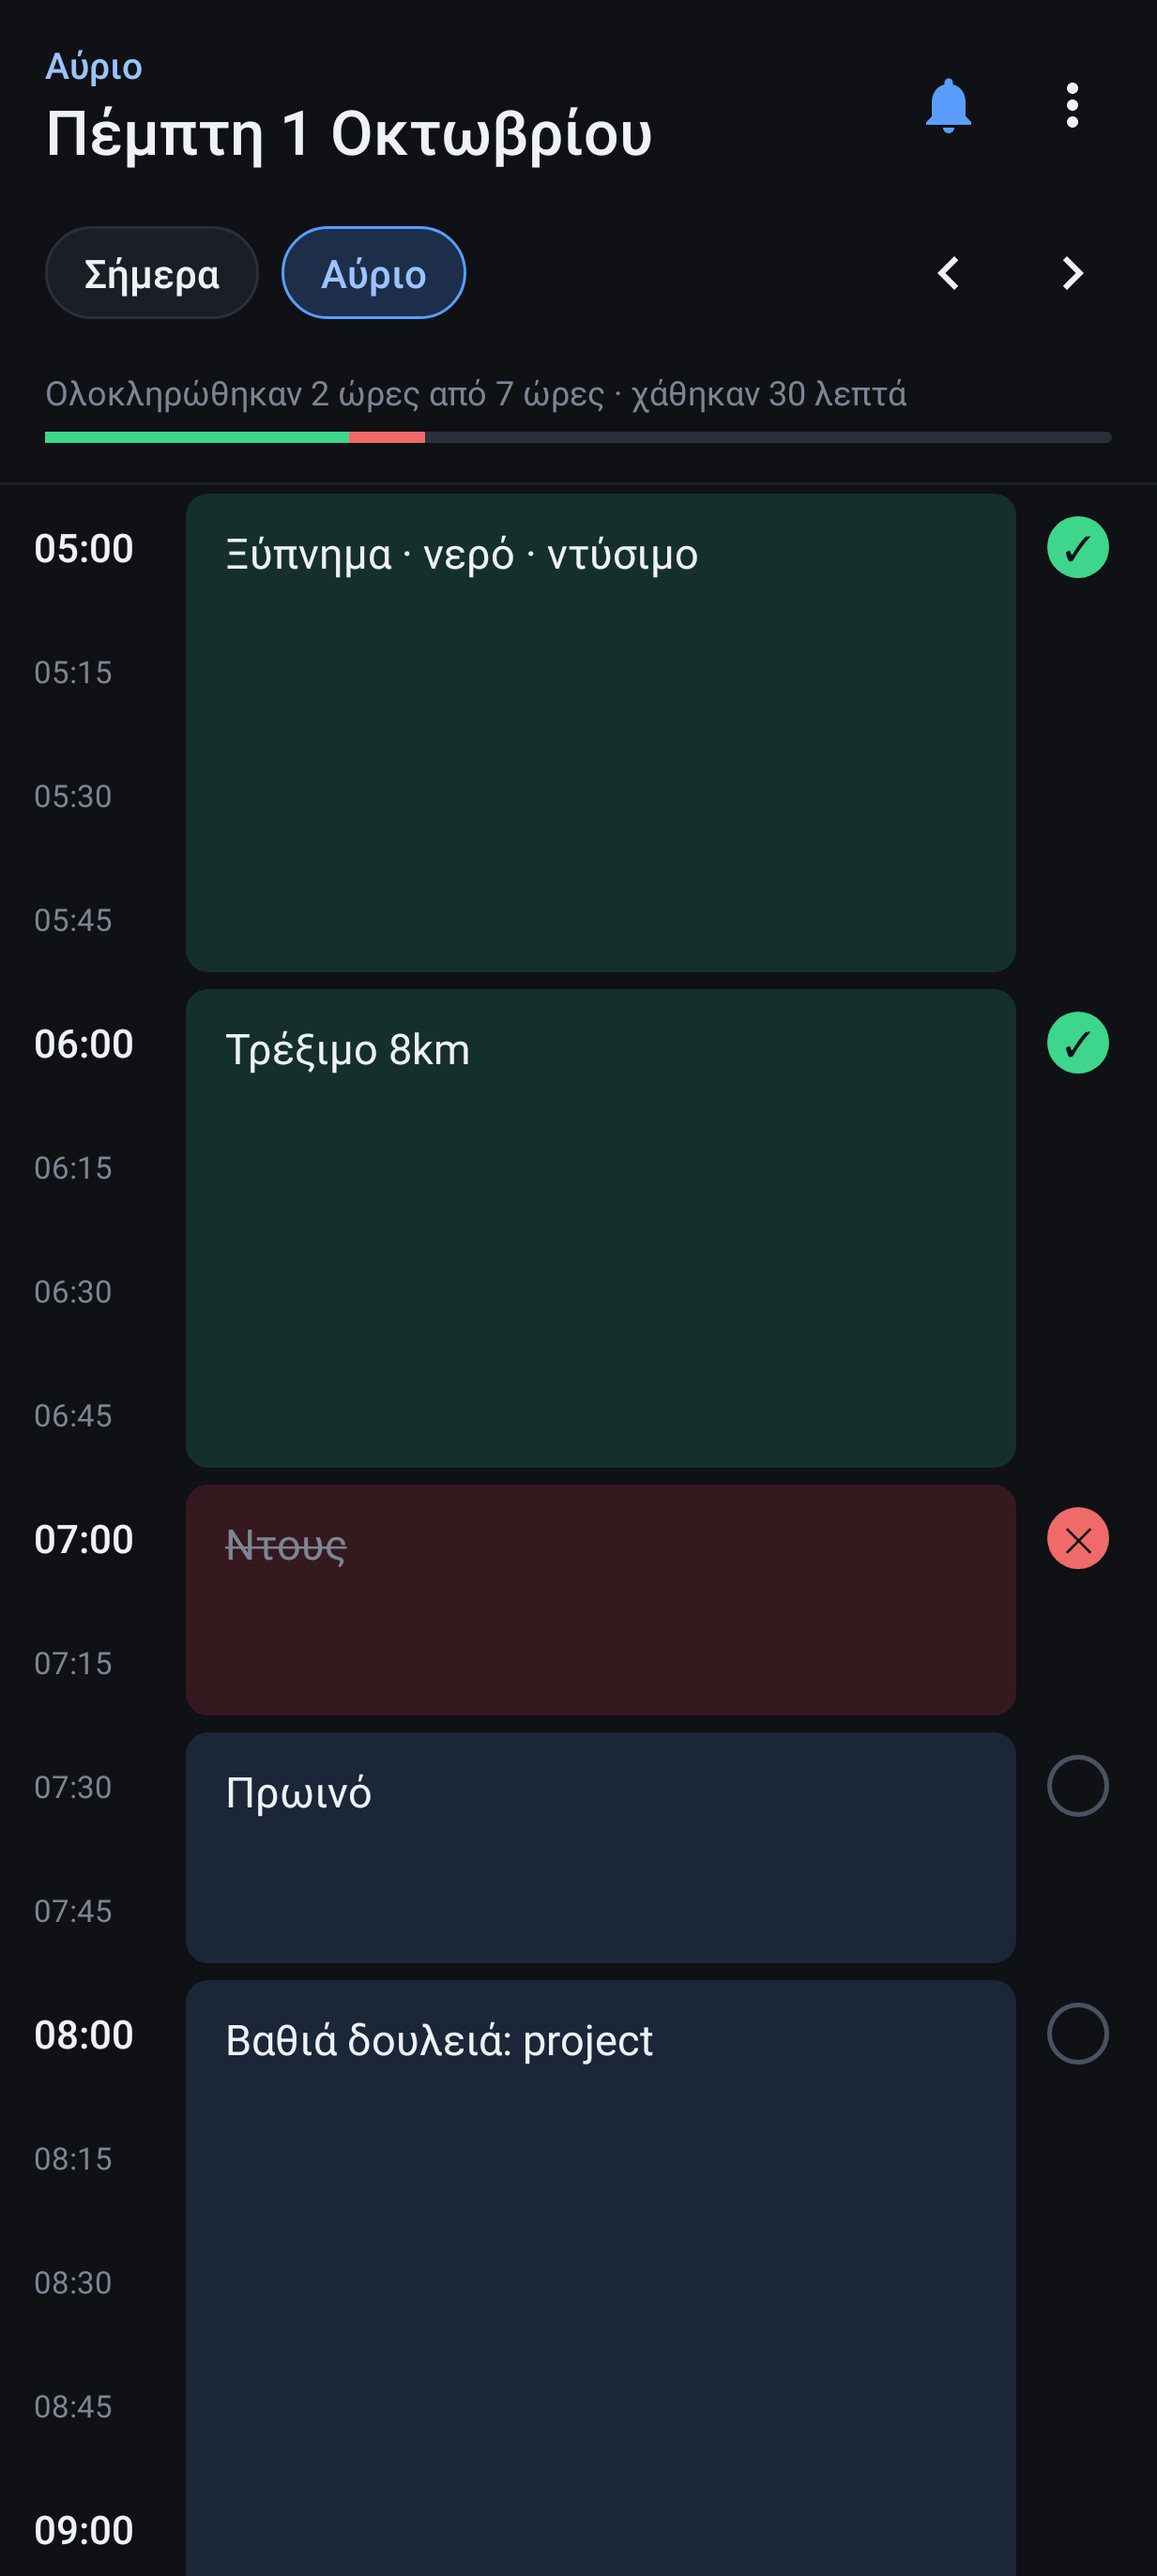
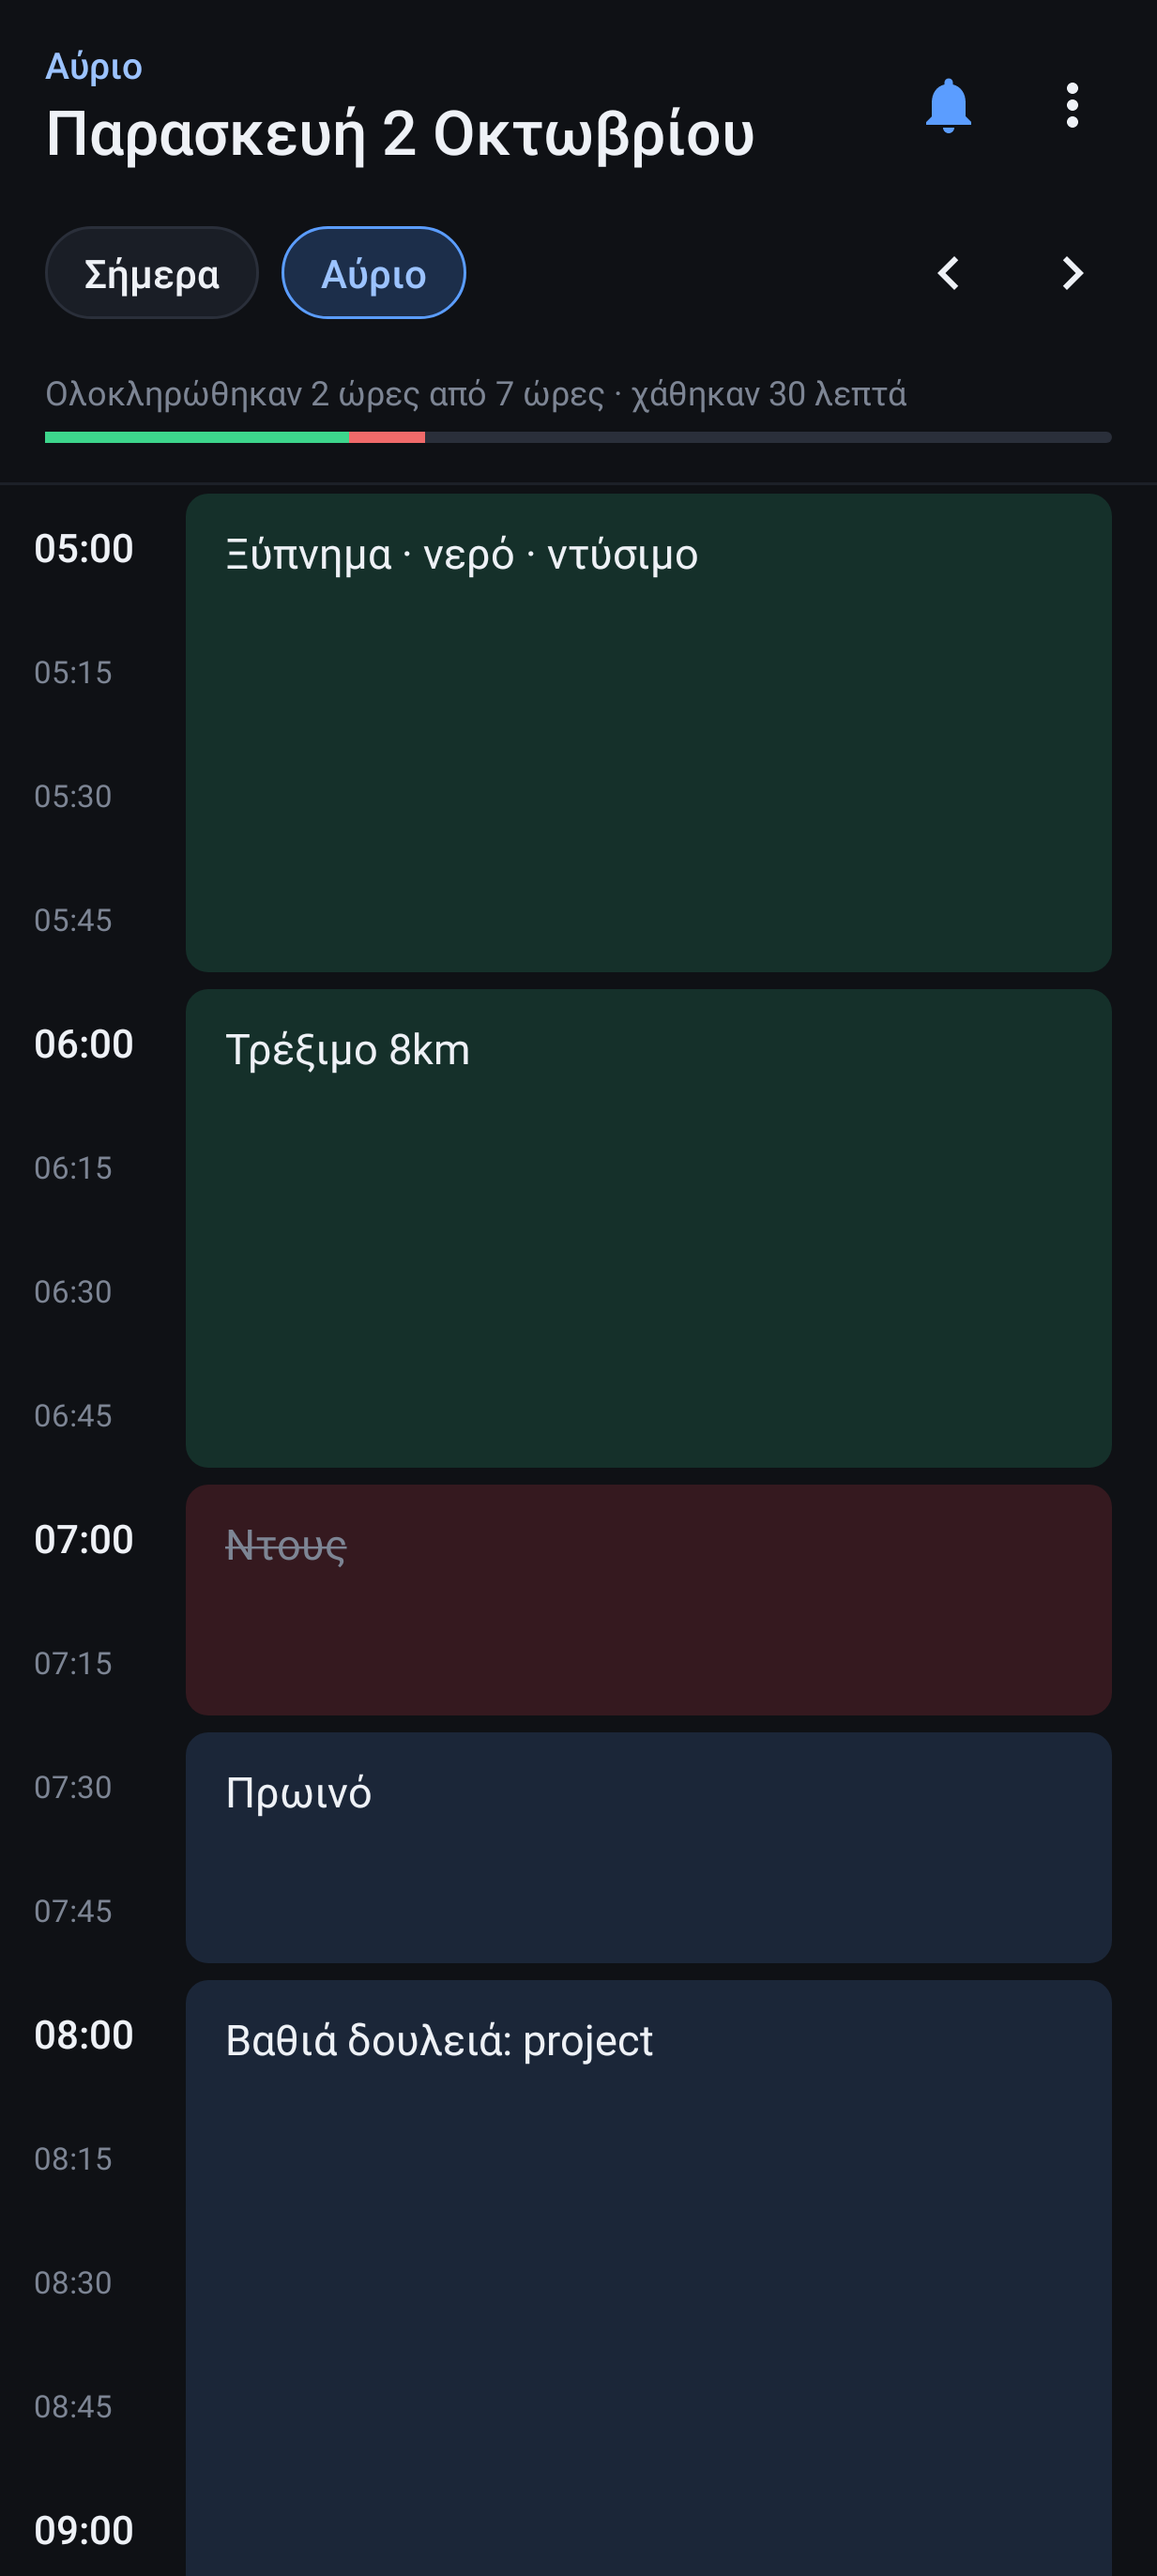
Move done / not-done marking from the side circle into the block editor
The status circle beside each block is gone, so blocks use the full
width. Tapping a block shows Done / Not done buttons at the top of the
editor; one tap saves the status and closes it, a second tap on the
selected one clears it.

Claude-Session: https://claude.ai/code/session_011h5q5tjD47oy7nF4i3weRa

Changed region(s): [[0.8629, 0.1858, 0.9862, 1.0], [0.0925, 0.031, 0.6472, 0.0619]]

diff --git a/app/src/main/java/com/omiros/timetable/MainActivity.java b/app/src/main/java/com/omiros/timetable/MainActivity.java
@@ -14,7 +14,6 @@ import android.graphics.Typeface;
 import android.graphics.drawable.ColorDrawable;
 import android.graphics.drawable.Drawable;
 import android.graphics.drawable.GradientDrawable;
-import android.graphics.drawable.InsetDrawable;
 import android.graphics.drawable.RippleDrawable;
 import android.os.Build;
 import android.os.Bundle;
@@ -90,7 +89,6 @@ public class MainActivity extends Activity {
     private final View[] rows = new View[DayStore.SLOTS];
     private final TextView[] timeViews = new TextView[DayStore.SLOTS];
     private final TextView[] boxViews = new TextView[DayStore.SLOTS];
-    private final TextView[] statusViews = new TextView[DayStore.SLOTS];
 
     @Override
     protected void onCreate(Bundle savedInstanceState) {
@@ -274,7 +272,7 @@ public class MainActivity extends Activity {
         scroll.setVerticalScrollBarEnabled(false);
         LinearLayout list = new LinearLayout(this);
         list.setOrientation(LinearLayout.VERTICAL);
-        list.setPadding(dp(12), dp(8), dp(8), dp(24));
+        list.setPadding(dp(12), dp(8), dp(16), dp(24));
         for (int i = 0; i < DayStore.SLOTS; i++) {
             list.addView(buildRow(i));
         }
@@ -284,7 +282,7 @@ public class MainActivity extends Activity {
         hint.setPadding(dp(16), dp(20), dp(16), 0);
         hint.setText("Πάτα ένα κουτί για να γράψεις τι θα κάνεις.\n"
                 + "Κράτα πατημένο ένα γεμάτο κουτί για νέα δραστηριότητα από εκείνη την ώρα.\n"
-                + "Πάτα τον κύκλο δεξιά: ✓ έγινε · ✕ δεν έγινε.");
+                + "Πάτα ένα γεμάτο κουτί για να το σημειώσεις ✓ έγινε ή ✕ δεν έγινε.");
         list.addView(hint);
         // The list plus a "now" line drawn over it at the current minute.
         android.widget.FrameLayout canvas = new android.widget.FrameLayout(this);
@@ -293,7 +291,7 @@ public class MainActivity extends Activity {
         android.widget.FrameLayout.LayoutParams nlp = new android.widget.FrameLayout.LayoutParams(
                 ViewGroup.LayoutParams.MATCH_PARENT, dp(10));
         nlp.leftMargin = dp(12 + 54 - 5);
-        nlp.rightMargin = dp(8 + 42);
+        nlp.rightMargin = dp(16);
         canvas.addView(nowLine, nlp);
         scroll.addView(canvas);
         root.addView(scroll, new LinearLayout.LayoutParams(ViewGroup.LayoutParams.MATCH_PARENT, 0, 1));
@@ -360,22 +358,10 @@ public class MainActivity extends Activity {
         });
         row.addView(box, new LinearLayout.LayoutParams(0, ViewGroup.LayoutParams.MATCH_PARENT, 1));
 
-        TextView status = text(12, BG, true);
-        status.setGravity(Gravity.CENTER);
-        status.setOnClickListener(new View.OnClickListener() {
-            @Override
-            public void onClick(View v) {
-                cycleStatus(i);
-            }
-        });
-        LinearLayout.LayoutParams stLp = new LinearLayout.LayoutParams(dp(40), dp(40));
-        stLp.leftMargin = dp(2);
-        row.addView(status, stLp);
 
         rows[i] = row;
         timeViews[i] = time;
         boxViews[i] = box;
-        statusViews[i] = status;
         return row;
     }
 
@@ -464,15 +450,6 @@ public class MainActivity extends Activity {
             lp.bottomMargin = joinNext ? 0 : dp(2);
             box.setLayoutParams(lp);
 
-            TextView sv = statusViews[i];
-            if (filled && !joinPrev) {
-                sv.setVisibility(View.VISIBLE);
-                sv.setText(st == DayStore.DONE ? "✓" : st == DayStore.MISSED ? "✕" : "");
-                sv.setBackground(statusBackground(st));
-            } else {
-                sv.setVisibility(View.INVISIBLE);
-            }
-
             TextView tv = timeViews[i];
             boolean hour = i % 4 == 0;
             tv.setTextColor(i == now ? ACCENT : hour ? TEXT : DIM);
@@ -493,18 +470,6 @@ public class MainActivity extends Activity {
         positionNowLine();
     }
 
-    private Drawable statusBackground(int st) {
-        GradientDrawable oval = new GradientDrawable();
-        oval.setShape(GradientDrawable.OVAL);
-        if (st == DayStore.DONE) oval.setColor(GREEN);
-        else if (st == DayStore.MISSED) oval.setColor(RED);
-        else oval.setStroke(dp(1.5f), 0xFF4A5261);
-        GradientDrawable mask = new GradientDrawable();
-        mask.setShape(GradientDrawable.OVAL);
-        mask.setColor(0xFFFFFFFF);
-        return new RippleDrawable(ColorStateList.valueOf(0x33FFFFFF), new InsetDrawable(oval, dp(9)), mask);
-    }
-
     // ---------------------------------------------------------------- interactions
 
     private void onBoxTap(int i) {
@@ -514,14 +479,6 @@ public class MainActivity extends Activity {
             int s = blockStart(i);
             openEditor(s, blockLen(s), true);
         }
-    }
-
-    private void cycleStatus(int i) {
-        if (day.text[i] == null) return;
-        int s = blockStart(i);
-        int next = (day.status[s] + 1) % 3;
-        for (int k = s, n = s + blockLen(s); k < n; k++) day.status[k] = next;
-        persist();
     }
 
     private void toggleNotifications() {
@@ -565,7 +522,37 @@ public class MainActivity extends Activity {
         range.setFontFeatureSettings("tnum");
         content.addView(range);
 
+        // Accountability: mark an existing block as done / not done (saves and closes right away).
+        final AlertDialog[] holder = new AlertDialog[1];
         final EditText input = new EditText(this);
+        if (existing) {
+            LinearLayout statusRow = new LinearLayout(this);
+            statusRow.setPadding(0, dp(14), 0, dp(2));
+            final int current = day.status[start];
+            int[] values = {DayStore.DONE, DayStore.MISSED};
+            String[] labels = {"✓  Έγινε", "✕  Δεν έγινε"};
+            for (int k = 0; k < 2; k++) {
+                final int value = values[k];
+                TextView c = chip(labels[k]);
+                styleStatusChip(c, value, current == value);
+                c.setOnClickListener(new View.OnClickListener() {
+                    @Override
+                    public void onClick(View v) {
+                        String t = input.getText().toString().trim();
+                        applyEdit(start, origLen, len[0], t.isEmpty() ? day.text[start] : t,
+                                current == value ? DayStore.NONE : value);
+                        holder[0].dismiss();
+                    }
+                });
+                LinearLayout.LayoutParams lp = new LinearLayout.LayoutParams(0, ViewGroup.LayoutParams.WRAP_CONTENT, 1);
+                if (k == 0) lp.rightMargin = dp(8);
+                c.setGravity(Gravity.CENTER);
+                c.setPadding(dp(14), dp(10), dp(14), dp(10));
+                statusRow.addView(c, lp);
+            }
+            content.addView(statusRow);
+        }
+
         input.setTextColor(TEXT);
         input.setHintTextColor(DIM);
         input.setHint("Τι θα κάνεις;");
@@ -683,7 +670,7 @@ public class MainActivity extends Activity {
                         if (t.isEmpty()) {
                             if (existing) clearRange(start, origLen);
                         } else {
-                            applyEdit(start, origLen, len[0], t);
+                            applyEdit(start, origLen, len[0], t, -1);
                         }
                     }
                 });
@@ -696,6 +683,7 @@ public class MainActivity extends Activity {
             });
         }
         final AlertDialog dialog = b.create();
+        holder[0] = dialog;
         input.setOnEditorActionListener(new TextView.OnEditorActionListener() {
             @Override
             public boolean onEditorAction(TextView v, int actionId, KeyEvent event) {
@@ -714,14 +702,15 @@ public class MainActivity extends Activity {
         styleButtons(dialog);
     }
 
-    private void applyEdit(int start, int origLen, int len, String t) {
+    /** @param status new status for the block, or -1 to keep it when the text is unchanged */
+    private void applyEdit(int start, int origLen, int len, String t, int status) {
         String oldText = origLen > 0 ? day.text[start] : null;
         int oldStatus = origLen > 0 ? day.status[start] : DayStore.NONE;
         for (int k = start; k < start + origLen; k++) {
             day.text[k] = null;
             day.status[k] = DayStore.NONE;
         }
-        int keep = t.equals(oldText) ? oldStatus : DayStore.NONE;
+        int keep = status >= 0 ? status : t.equals(oldText) ? oldStatus : DayStore.NONE;
         for (int k = start; k < Math.min(DayStore.SLOTS, start + len); k++) {
             day.text[k] = t;
             day.status[k] = keep;
@@ -953,6 +942,22 @@ public class MainActivity extends Activity {
             g.setColor(ACCENT_BG);
             g.setStroke(dp(1), ACCENT);
             c.setTextColor(ACCENT_SOFT);
+        } else {
+            g.setColor(0xFF1A1E26);
+            g.setStroke(dp(1), FAINT);
+            c.setTextColor(TEXT);
+        }
+        c.setBackground(new RippleDrawable(ColorStateList.valueOf(0x33FFFFFF), g, null));
+    }
+
+    private void styleStatusChip(TextView c, int value, boolean selected) {
+        int color = value == DayStore.DONE ? GREEN : RED;
+        GradientDrawable g = new GradientDrawable();
+        g.setCornerRadius(dp(18));
+        if (selected) {
+            g.setColor(value == DayStore.DONE ? DONE_BOX : MISSED_BOX);
+            g.setStroke(dp(1), color);
+            c.setTextColor(color);
         } else {
             g.setColor(0xFF1A1E26);
             g.setStroke(dp(1), FAINT);

diff --git a/README.md b/README.md
@@ -16,9 +16,9 @@
 - **Σήμερα / Αύριο**: γρήγορη εναλλαγή ημέρας. Με ‹ › πας μέρα-μέρα, πατώντας την ημερομηνία διαλέγεις από ημερολόγιο.
 - **Πάτα ένα κουτί** → γράφεις τι θα κάνεις και διαλέγεις διάρκεια (15', 30', 1ω… ή με − / +).
   Τα κουτιά με την ίδια δραστηριότητα ενώνονται σε ένα block.
-- **Πάτα ένα γεμάτο block** → αλλάζεις κείμενο/διάρκεια ή το διαγράφεις.
+- **Πάτα ένα γεμάτο block** → το σημειώνεις ✓/✕, αλλάζεις κείμενο/διάρκεια ή το διαγράφεις.
 - **Κράτα πατημένο** ένα γεμάτο κουτί → νέα δραστηριότητα από εκείνη ακριβώς την ώρα.
-- **Κύκλος δεξιά**: ○ → ✓ (έγινε) → ✗ (δεν έγινε). Πάνω δεξιά βλέπεις πόσες ώρες έβγαλες.
+- **✓ Έγινε / ✕ Δεν έγινε**: πάτα ένα γεμάτο block και διάλεξε. Το block γίνεται πράσινο ή κόκκινο και πάνω βλέπεις πόσες ώρες έβγαλες.
 - **🔔 (πάνω δεξιά)**: ειδοποίηση στην αρχή κάθε δραστηριότητας. Ένα πάτημα την ανοίγει ή την κλείνει για όλες τις μέρες.
 - **⋮**: αντιγραφή προγράμματος από χθες ή άλλη μέρα, μηδενισμός ✓/✗, καθαρισμός ημέρας.
 - Μετά τις 18:00, αν δεν έχεις γράψει το αύριο, εμφανίζεται υπενθύμιση πάνω από τη λίστα.
